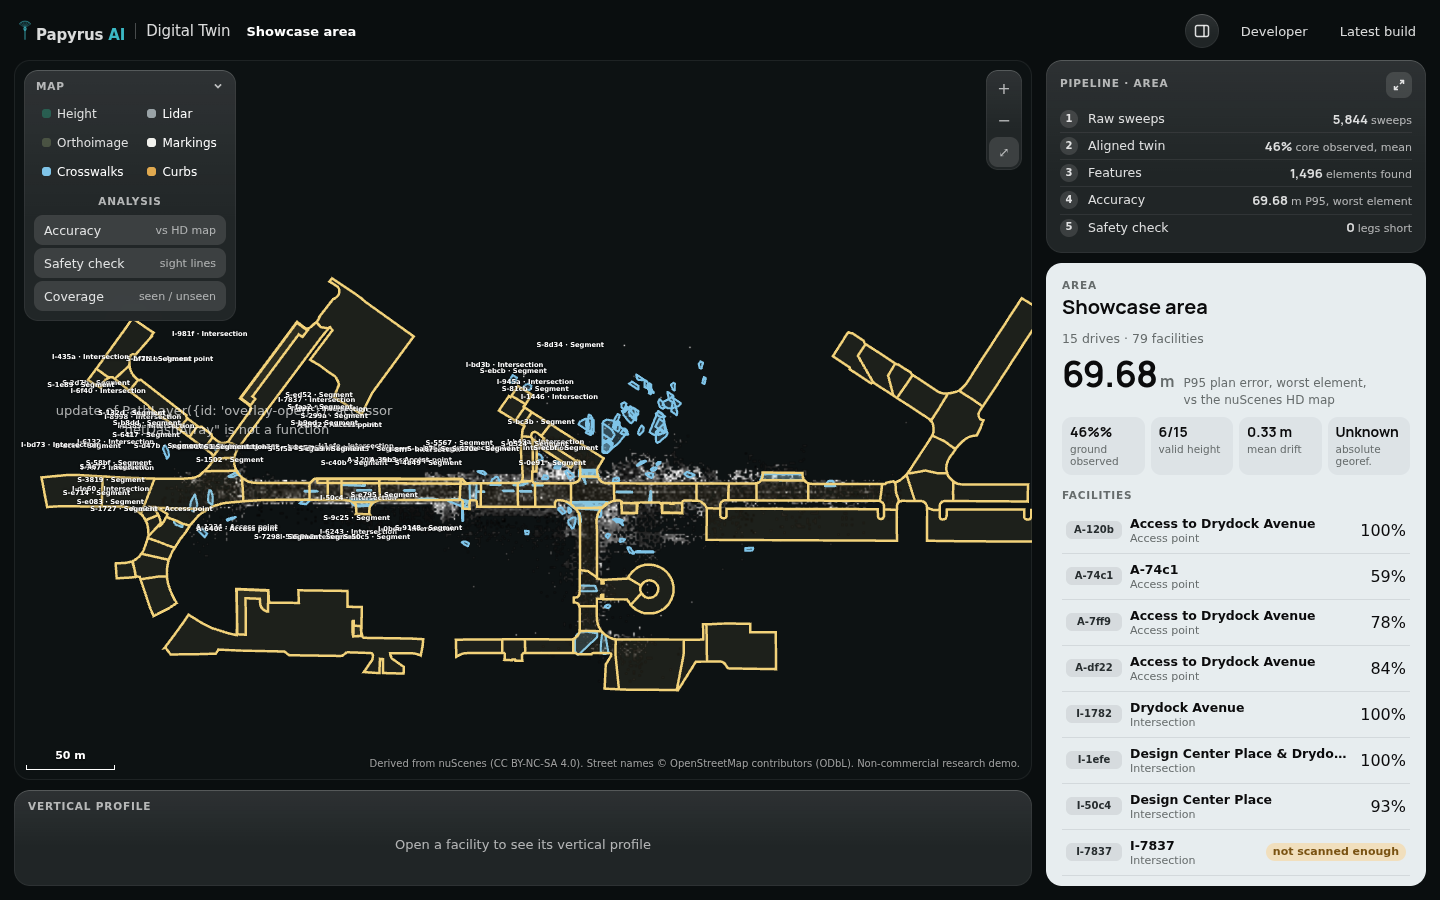
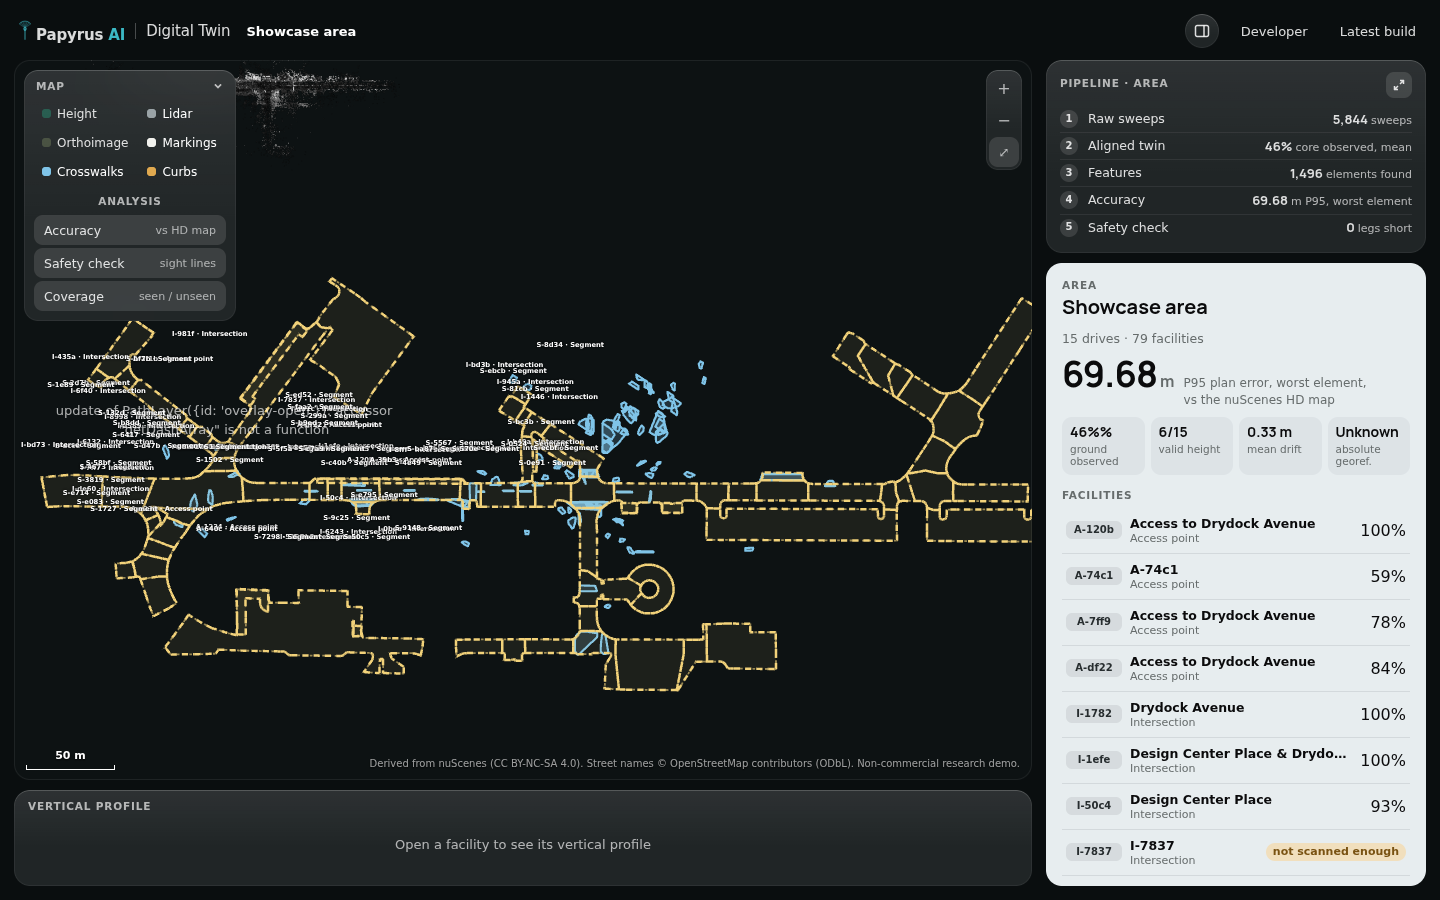
feat(evidence): #288 measurement results

diff --git a/docs/evidence/288/need-human.md b/docs/evidence/288/need-human.md
@@ -4,8 +4,7 @@ Venue: live-mirror: Seaport (15 drives)
 
 Failing pairs:
 - frame p95 not improved: 0 -> 0
-- whole image count not reduced: 0 -> 0
-- page errors: before=7 after=75
+- page errors: before=7 after=69
 
-Before: frame p95 0 ms, images 0 (0 B), heap 50506940, renderer ANGLE (Google, Vulkan 1.3.0 (SwiftShader Device (Subzero) (0x0000C0DE)), SwiftShader driver)
-After:  frame p95 0 ms, images 0 (0 B), heap 28728740, renderer ANGLE (Google, Vulkan 1.3.0 (SwiftShader Device (Subzero) (0x0000C0DE)), SwiftShader driver)
+Before: frame p95 0 ms, images 322 (2347443 B), heap 67559924, renderer ANGLE (Google, Vulkan 1.3.0 (SwiftShader Device (Subzero) (0x0000C0DE)), SwiftShader driver)
+After:  frame p95 0 ms, images 0 (0 B), heap 27290060, renderer ANGLE (Google, Vulkan 1.3.0 (SwiftShader Device (Subzero) (0x0000C0DE)), SwiftShader driver)
